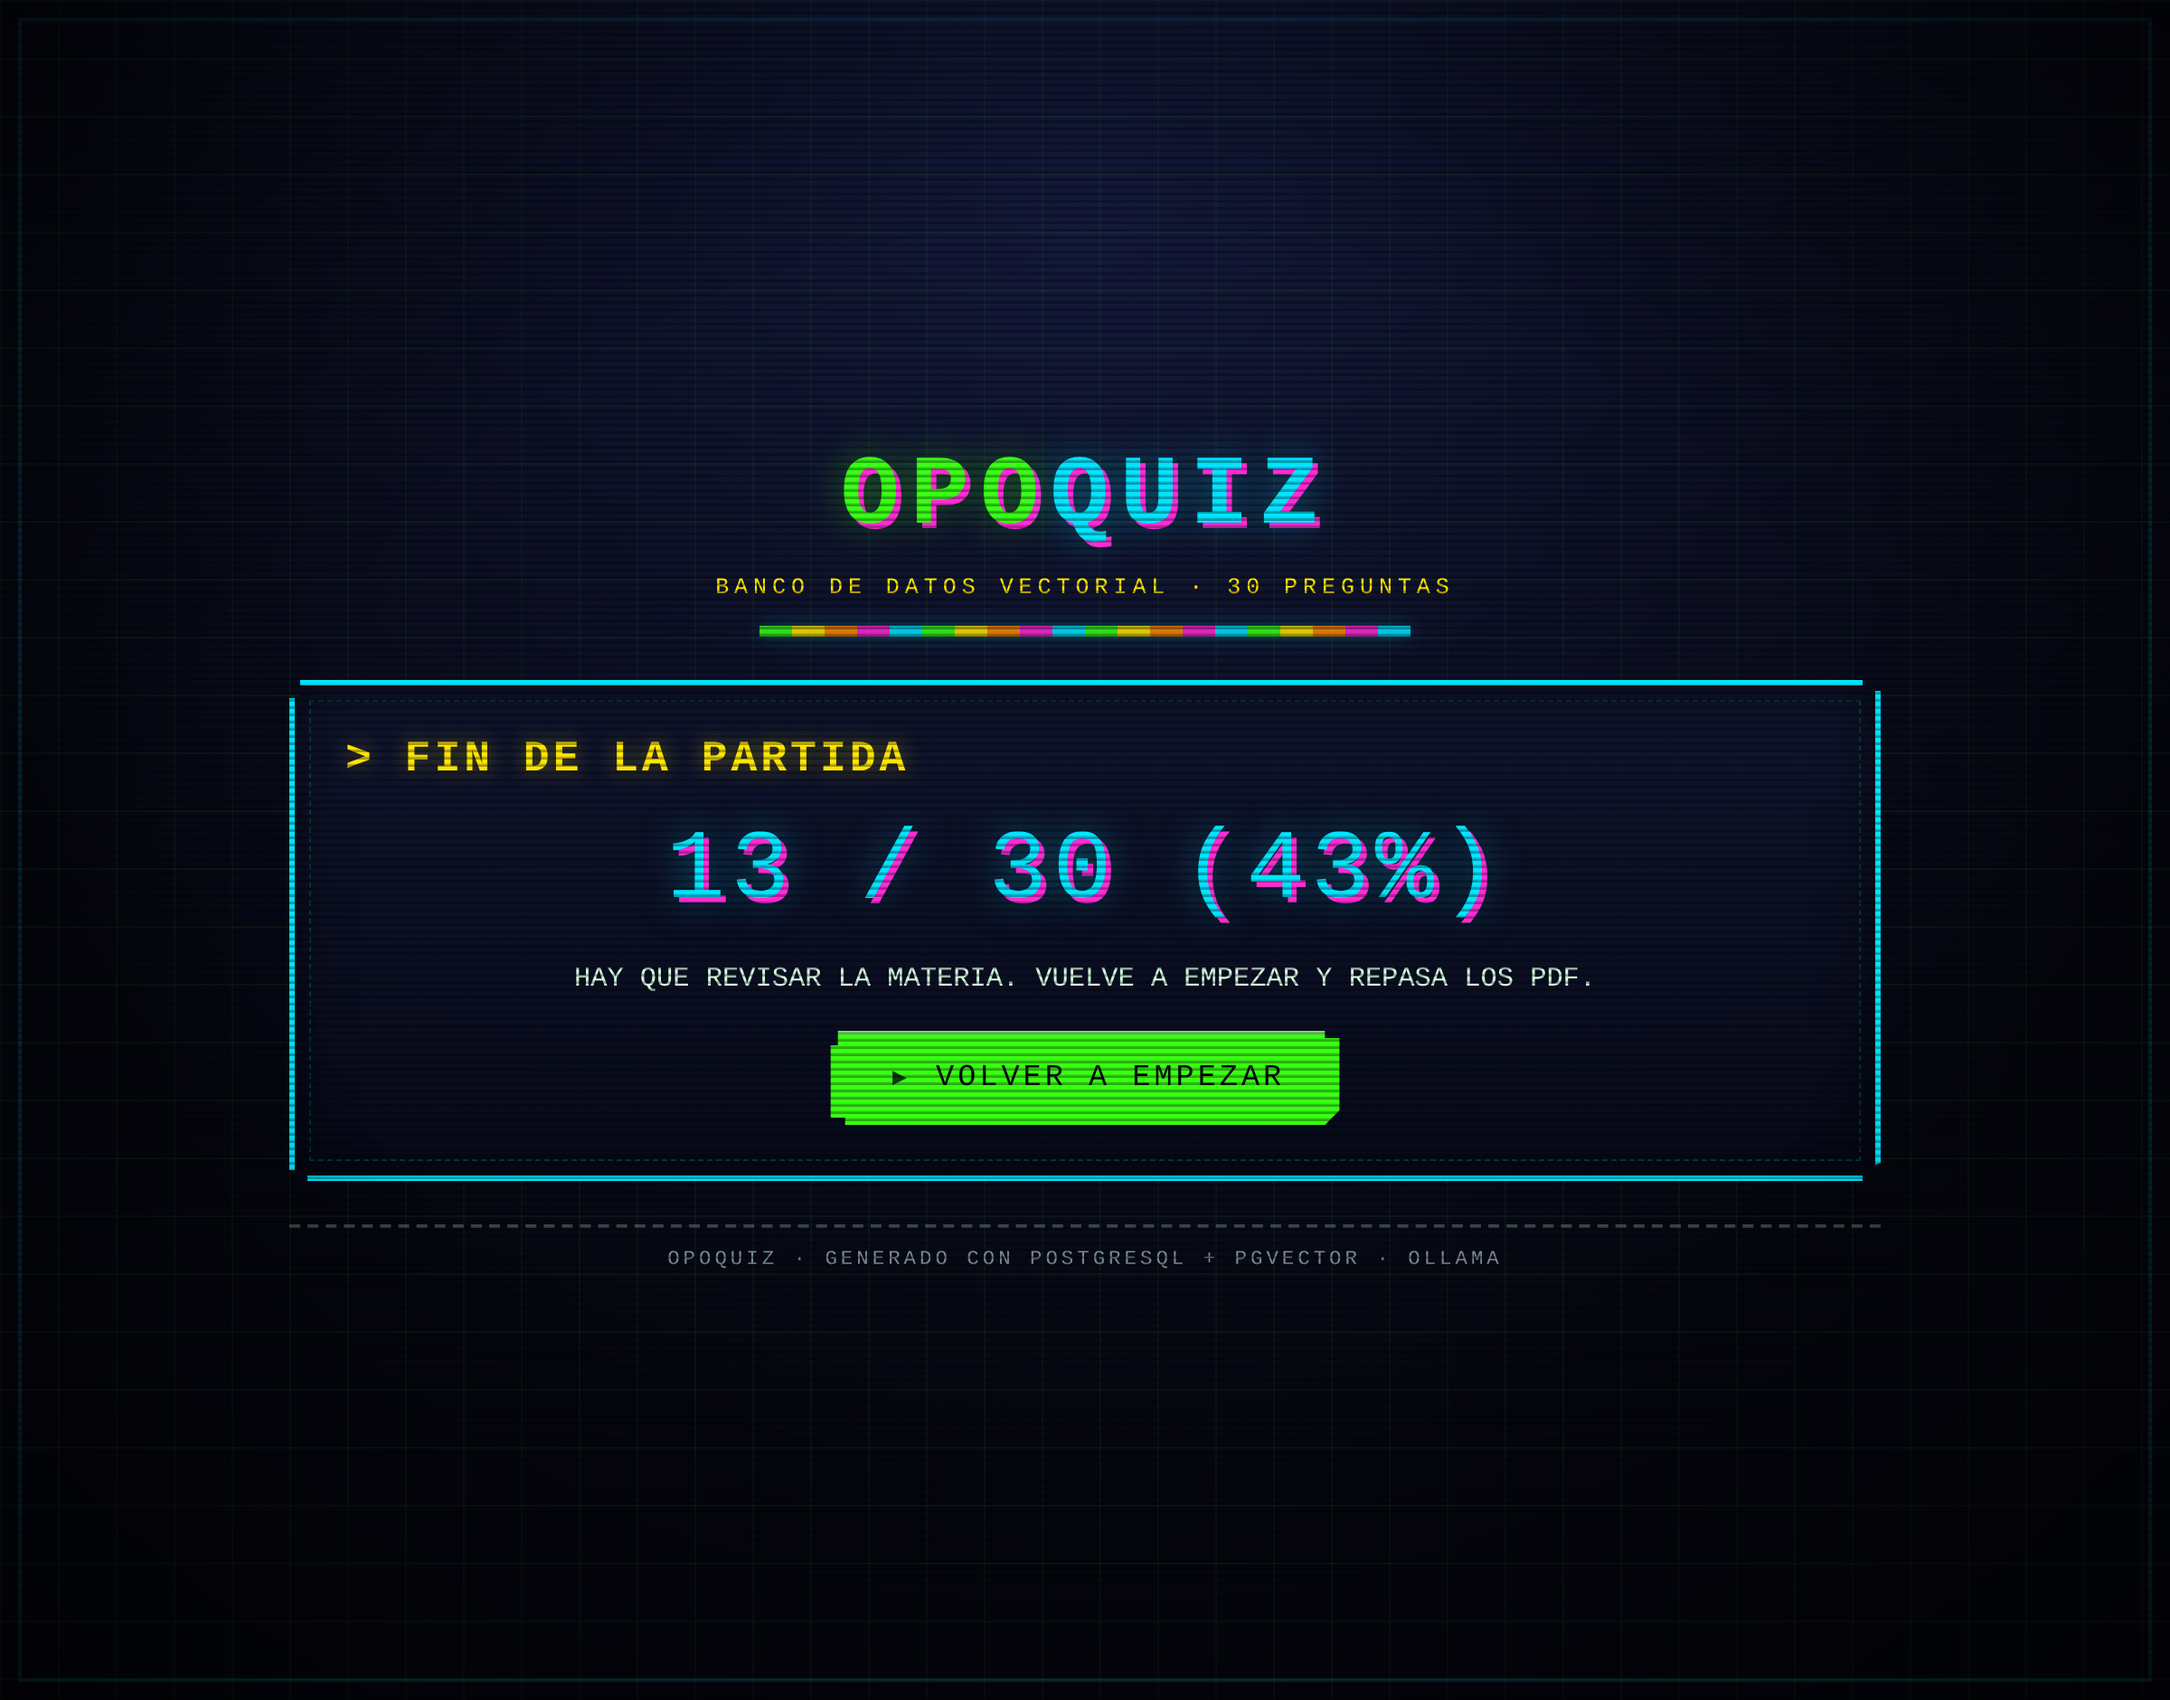
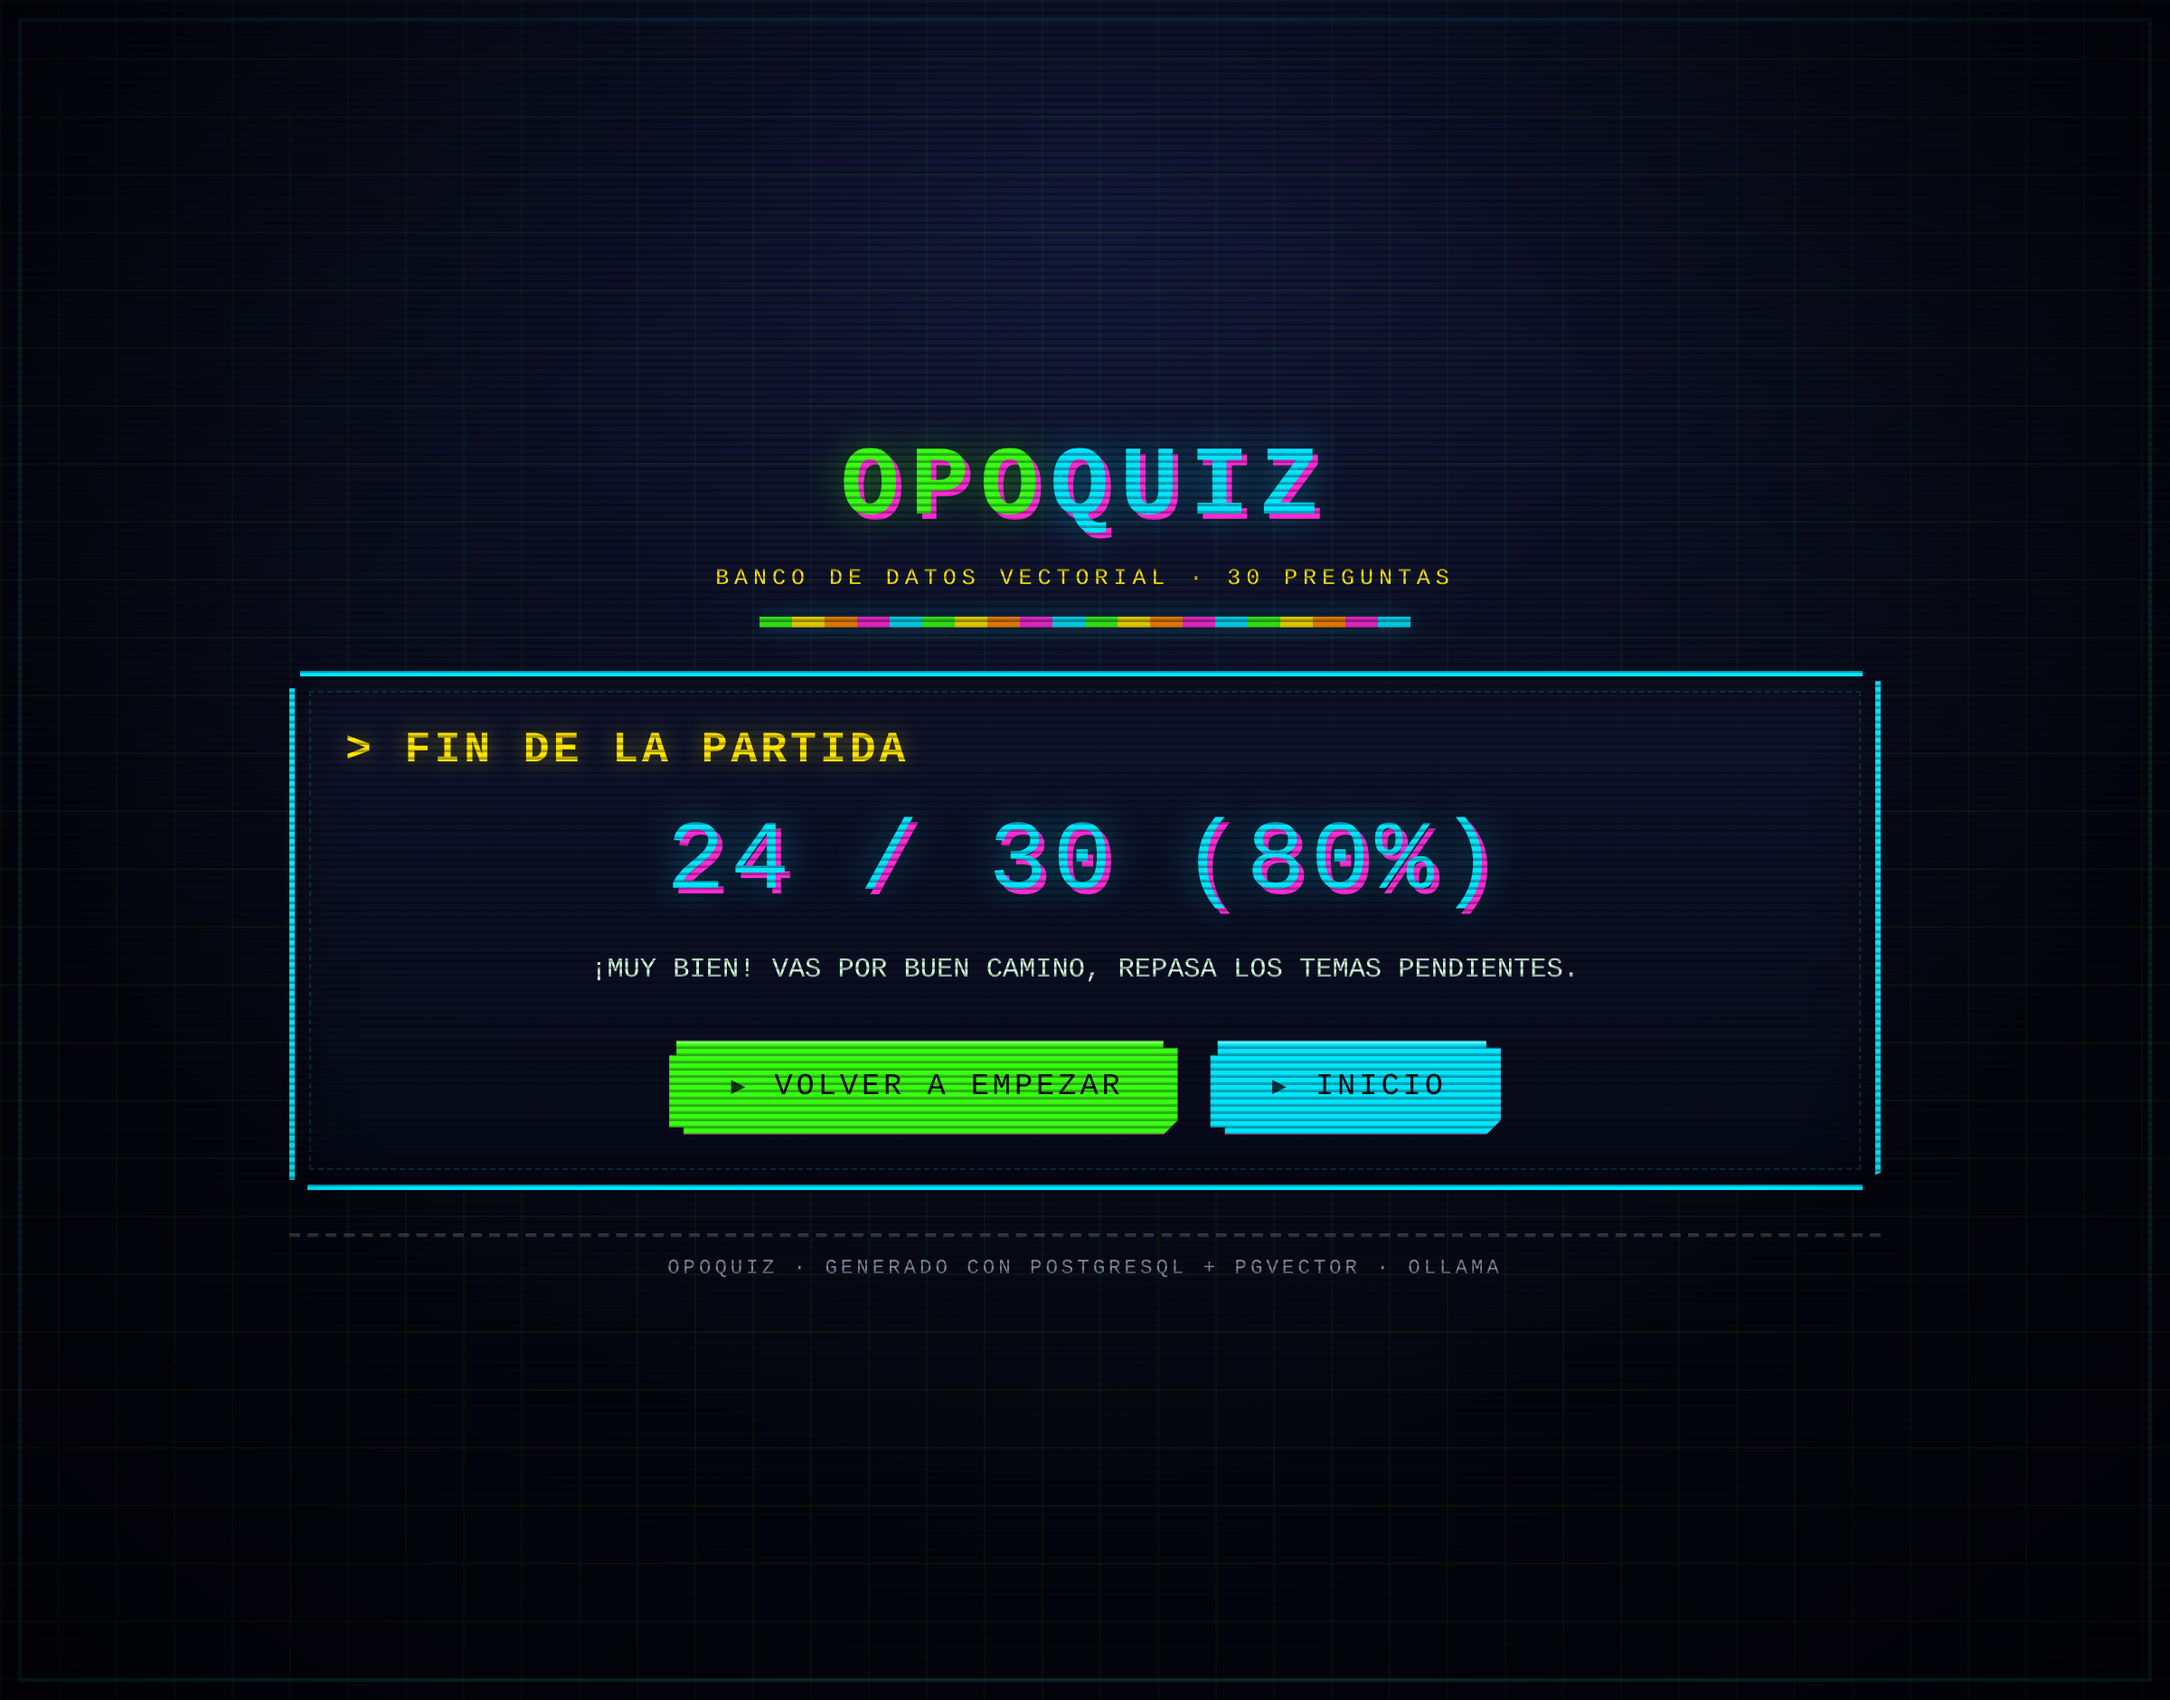
Añade el botón INICIO a la pantalla de fin de partida
La pantalla final solo permitía "VOLVER A EMPEZAR". Ahora tiene los dos
botones: la acción principal en lima y "INICIO" en cian, que devuelve a la
pantalla de inicio sin seguir jugando.

- index.html: botón #boton-inicio dentro de .botones-final.
- css/style.css: variante .boton-secundario (cian) y fila flexible que se
  adapta a pantallas estrechas.
- js/app.js: el reinicio del estado se extrae a reiniciarPartida() y lo usan
  los tres botones. Así, al volver al inicio y empezar otra vez, la partida
  no hereda los aciertos ni las respuestas marcadas de la anterior.
- tests/quiz.spec.js: 2 pruebas nuevas (el botón INICIO vuelve al inicio y la
  partida siguiente empieza limpia). 19/19 en verde.
- docs/img/final.png: captura actualizada con los dos botones.

Changed region(s): [[0.125, 0.2468, 0.875, 0.7404]]

diff --git a/tests/quiz.spec.js b/tests/quiz.spec.js
@@ -185,6 +185,60 @@ test.describe('Comportamiento del quiz', () => {
         await expect(page.locator('.quizlib-question:visible')).toHaveCount(1);
     });
 
+    test('el botón INICIO vuelve a la pantalla de inicio desde el fin de partida', async ({ page }) => {
+        await page.goto('/index.html');
+        await page.getByRole('button', { name: 'EMPEZAR PARTIDA' }).click();
+
+        for (let i = 0; i < 30; i += 1) {
+            await page.locator('.quizlib-question:visible .opcion').first().click();
+            const boton = page.locator('#boton-siguiente');
+            await expect(boton).toBeVisible();
+            await boton.click();
+        }
+
+        // Pantalla final con los dos botones
+        await expect(page.locator('#pantalla-final')).toBeVisible();
+        await expect(page.locator('#boton-reiniciar')).toBeVisible();
+        await expect(page.locator('#boton-inicio')).toBeVisible();
+        await expect(page.locator('#boton-inicio')).toHaveText('INICIO');
+
+        // El botón INICIO vuelve a la pantalla de inicio
+        await page.locator('#boton-inicio').click();
+        await expect(page.locator('#pantalla-inicio')).toBeVisible();
+        await expect(page.locator('#pantalla-quiz')).toBeHidden();
+        await expect(page.locator('#pantalla-final')).toBeHidden();
+        await expect(page.locator('#boton-empezar')).toBeVisible();
+    });
+
+    test('al volver a INICIO y empezar otra vez, la partida está limpia', async ({ page }) => {
+        await page.goto('/index.html');
+        await page.getByRole('button', { name: 'EMPEZAR PARTIDA' }).click();
+
+        // Se responden tres preguntas (una mal, para dejar aciertos y fallos)
+        await page.locator('.quizlib-question:visible .opcion').first().click();
+        await page.locator('#boton-siguiente').click();
+        await page.locator('.quizlib-question:visible .opcion').first().click();
+        await page.locator('#boton-siguiente').click();
+        await page.locator('.quizlib-question:visible .opcion').first().click();
+        await page.locator('#boton-siguiente').click();
+
+        // Se vuelve a la pantalla de inicio y se empieza otra partida
+        await page.goto('/index.html');
+        await page.getByRole('button', { name: 'EMPEZAR PARTIDA' }).click();
+
+        // Ni los aciertos ni las respuestas marcadas se heredan
+        await expect(page.locator('#contador-aciertos')).toHaveText('0');
+        await expect(page.locator('#pregunta-actual')).toHaveText('1');
+        await expect(page.locator('.quizlib-question:visible')).toHaveCount(1);
+        await expect(
+            page.locator('.quizlib-question:visible .opcion.quizlib-correct')
+        ).toHaveCount(0);
+        await expect(
+            page.locator('.quizlib-question:visible .opcion.quizlib-incorrect')
+        ).toHaveCount(0);
+        await expect(page.locator('.quizlib-question:visible .explicacion:visible')).toHaveCount(0);
+    });
+
     test('todos los textos visibles están en español', async ({ page }) => {
         const texto = await page.locator('body').innerText();
         const ingleses = ['Question', 'Answer', 'Score', 'Start', 'Next', 'Restart', 'Unanswered'];

diff --git a/js/app.js b/js/app.js
@@ -21,6 +21,7 @@
     const botonEmpezar = document.getElementById('boton-empezar');
     const botonSiguiente = document.getElementById('boton-siguiente');
     const botonReiniciar = document.getElementById('boton-reiniciar');
+    const botonInicio = document.getElementById('boton-inicio');
     const preguntaActual = document.getElementById('pregunta-actual');
     const preguntaTotal = document.getElementById('pregunta-total');
     const contadorAciertos = document.getElementById('contador-aciertos');
@@ -383,7 +384,22 @@
 
     /* --------------------------------------------------------- eventos */
 
+    /**
+     * Deja el juego como recién abierto: sin aciertos, sin respuestas marcadas
+     * y con las preguntas barajadas de nuevo.
+     */
+    function reiniciarPartida() {
+        indice = 0;
+        aciertos = 0;
+        respondida = [];
+        contadorAciertos.textContent = '0';
+        construirPreguntas();
+    }
+
     botonEmpezar.addEventListener('click', function () {
+        // Se reinicia siempre: así una partida nueva nunca hereda el estado
+        // de la anterior (por ejemplo, si se vuelve desde la pantalla final)
+        reiniciarPartida();
         pantallaInicio.classList.add('oculto');
         pantallaFinal.classList.add('oculto');
         pantallaQuiz.classList.remove('oculto');
@@ -426,14 +442,20 @@
 
     // Botón de reinicio: vuelve a empezar la partida desde el principio
     botonReiniciar.addEventListener('click', function () {
-        indice = 0;
-        aciertos = 0;
-        respondida = [];
-        contadorAciertos.textContent = '0';
-        construirPreguntas();
+        reiniciarPartida();
         pantallaFinal.classList.add('oculto');
         pantallaQuiz.classList.remove('oculto');
         mostrarPregunta(0);
+        // El historial se refresca para que la pantalla de inicio esté al día
+        cargarHistorial();
+    });
+
+    // Botón INICIO: vuelve a la pantalla de inicio sin seguir jugando
+    botonInicio.addEventListener('click', function () {
+        reiniciarPartida();
+        pantallaFinal.classList.add('oculto');
+        pantallaQuiz.classList.add('oculto');
+        pantallaInicio.classList.remove('oculto');
         // El historial se refresca para que la pantalla de inicio esté al día
         cargarHistorial();
     });

diff --git a/index.html b/index.html
@@ -64,7 +64,10 @@
             <h2 class="pantalla-titulo">&gt; FIN DE LA PARTIDA</h2>
             <div id="resultado-puntuacion" class="puntuacion">0 / 30</div>
             <p id="resultado-texto" class="pantalla-texto"></p>
-            <button id="boton-reiniciar" class="boton boton-grande" type="button">VOLVER A EMPEZAR</button>
+            <div class="botones-final">
+                <button id="boton-reiniciar" class="boton boton-grande" type="button">VOLVER A EMPEZAR</button>
+                <button id="boton-inicio" class="boton boton-grande boton-secundario" type="button">INICIO</button>
+            </div>
         </section>
     </main>
 

diff --git a/css/style.css b/css/style.css
@@ -289,6 +289,26 @@ body::after {
     margin: 0 auto;
 }
 
+/* Variante secundaria: acento cian para acciones alternativas */
+.boton-secundario {
+    background: var(--neon-cian);
+    box-shadow: var(--sombra-dura), inset 0 2px 0 rgba(255, 255, 255, 0.4);
+}
+
+/* Fila de botones de la pantalla final */
+.botones-final {
+    display: flex;
+    flex-wrap: wrap;
+    gap: 18px;
+    justify-content: center;
+    align-items: center;
+    margin-top: 26px;
+}
+
+.botones-final .boton-grande {
+    margin: 0;
+}
+
 .controles {
     margin-top: 24px;
     text-align: center;
